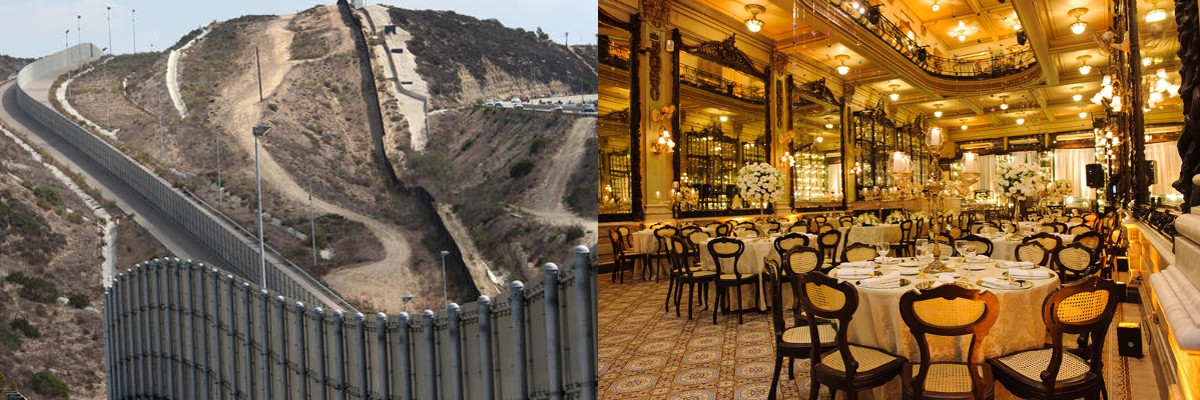
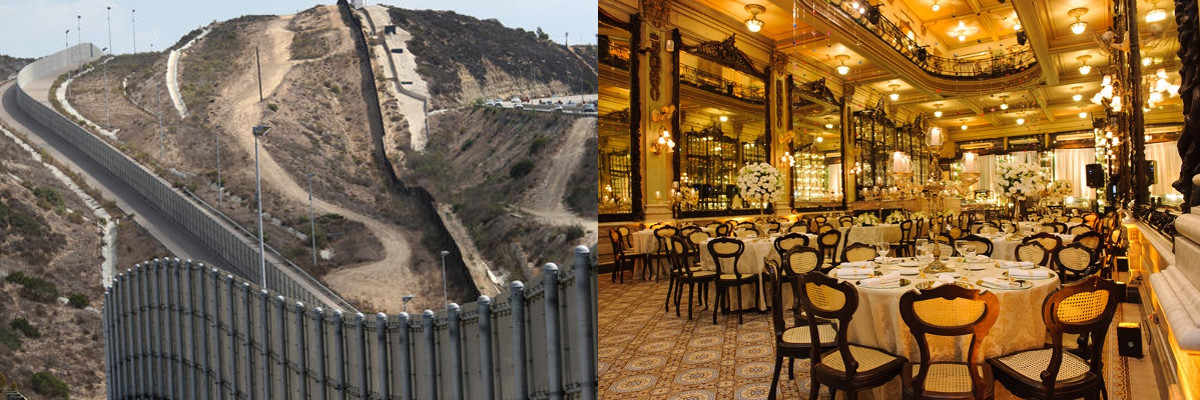
Reduce images

diff --git a/blog/2016/04/26/80-porcento-dos-presos-brasileiros-so-possuem-ensino-fundamental.html b/blog/2016/04/26/80-porcento-dos-presos-brasileiros-so-possuem-ensino-fundamental.html
@@ -197,7 +197,7 @@ j=d.createElement(s),dl=l!='dataLayer'?'&l='+l:'';j.async=true;j.src=
             <div class="blog-header-caption">
               <h1>80% dos presos brasileiros só possuem ensino fundamental</h1>
             </div>
-            <img src="/images/blog/perfil-do-preso-brasileiro-1024.png" alt="">
+            <img src="/images/blog/perfil-do-preso-brasileiro-1024.gif" alt="">
           </div>
         </div>
       </div>
@@ -385,7 +385,7 @@ Podemos dizer que o salário que menos paga (mil reais), nesta rua, paga 20 veze
 <p>De qualquer maneira, tanto a violência, quanto o índice de Gini, estão dentre os piores valores do mundo na América Latina. Ou seja, a América Latina é responsável pela maior parcela dos assassinatos mundiais, bem como possui quase em sua totalidade os piores índices de Gini em relação à média mundial.</p>
 
 <figure data-feedback="fb:likes, fb:comments">
-  <img src="http://mapadaseguranca.com/images/blog/indice-gini-e-violencia.png" width="100%" height="auto" />
+  <img src="http://mapadaseguranca.com/images/blog/indice-gini-e-violencia.gif" width="100%" height="auto" />
   <figcaption>
   	<h1>Índices de violência (em azul) e índices de Gini (vermelho/verde) no mundo.</h1>
   	<p>Quanto mais azul escuro, mais violento. Quanto mais vermelho, mais desigual.</p>

diff --git a/blog/2016/06/11/terra-de-ninguem.html b/blog/2016/06/11/terra-de-ninguem.html
@@ -247,7 +247,7 @@ j=d.createElement(s),dl=l!='dataLayer'?'&l='+l:'';j.async=true;j.src=
 <p>Os moradores das regiões vulneráveis brasileiras possuem "visto de trabalho", trabalho barato, para acessar as boas ruas brasileiras. Da mesma maneira como ocorre com muitos mexicanos, entre outros imigrantes vulneráveis, dentro dos EUA. Como apresenta o filme.</p>
 
 <figure data-mode="aspect-fit">
-  <img src="http://mapadaseguranca.com/images/blog/muros.jpg" width="100%" height="auto" />
+  <img src="http://mapadaseguranca.com/images/blog/muros-1920.jpg" width="100%" height="auto" />
   <figcaption>
   	<h1>Muros altos.</h1>
  		Físico e bem vigiado entre México e EUA, de preços e salários - e bem vigiado - entre dois Brasis.
